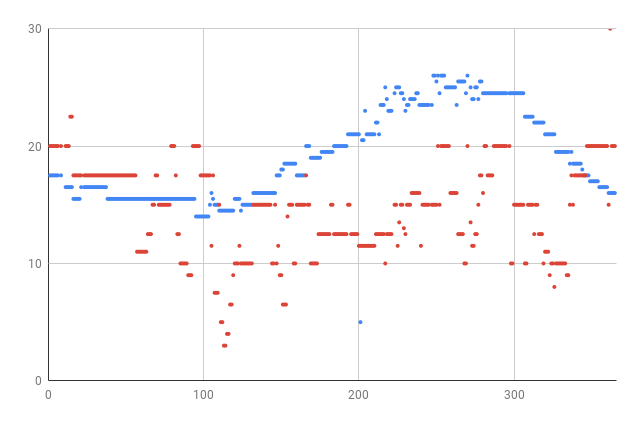
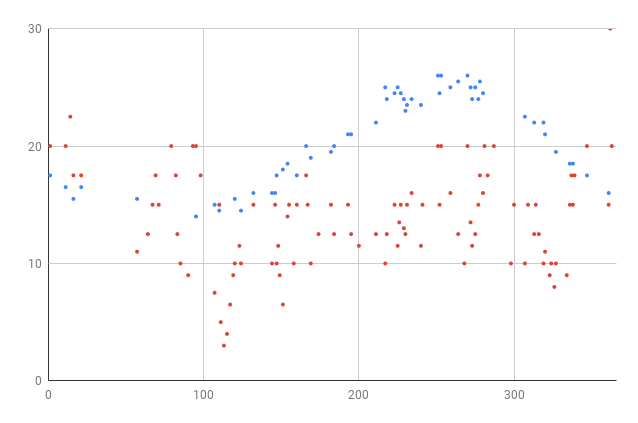
style: WIP WIP WIP プロットされるところをちょうど良くしたい

diff --git a/src/components/PlotDigitizer.vue b/src/components/PlotDigitizer.vue
@@ -44,8 +44,8 @@
                   top: `${axis.yPx}px`,
                   left: `${axis.xPx}px`,
                   'pointer-events': 'none',
-                  width: '10px',
-                  height: '10px',
+                  width: `${detectRangePx * 2}px`,
+                  height: `${detectRangePx * 2}px`,
                   'border-radius': '50%',
                   'background-color': coordAxes.length === 4 ? 'black' : 'red',
                 }"
@@ -73,8 +73,8 @@
                   top: `${point.yPx}px`,
                   left: `${point.xPx}px`,
                   'pointer-events': 'none',
-                  width: '10px',
-                  height: '10px',
+                  width: `${detectRangePx * 2}px`,
+                  height: `${detectRangePx * 2}px`,
                   'border-radius': '50%',
                   'background-color': 'red',
                 }"
@@ -93,6 +93,7 @@
               {{ showAxisName(coordAxes.length) }}
             </div>
           </div>
+          {{ points.length }}
           <v-simple-table v-if="points.length > 0 && coordAxes.length === 4">
             <template #default>
               <thead>
@@ -173,8 +174,8 @@
                     cursorOnGraph.xPx - circleRadiusScaledPx
                   }px, -${cursorOnGraph.yPx - circleRadiusScaledPx}px)`,
                   'transform-origin': 'top left',
-                  width: '10px',
-                  height: '10px',
+                  width: `${detectRangePx * 2}px`,
+                  height: `${detectRangePx * 2}px`,
                   'border-radius': '50%',
                   'background-color': coordAxes.length === 4 ? 'black' : 'red',
                 }"
@@ -209,8 +210,8 @@
                   }px, -${cursorOnGraph.yPx - circleRadiusScaledPx}px)`,
                   'transform-origin': 'top left',
                   'pointer-events': 'none',
-                  width: '10px',
-                  height: '10px',
+                  width: `${detectRangePx * 2}px`,
+                  height: `${detectRangePx * 2}px`,
                   'border-radius': '50%',
                   'background-color': 'red',
                 }"
@@ -301,6 +302,23 @@
             label="Plots Distance (px)"
             thumb-size="25"
           ></v-slider>
+          <div
+            :style="{
+              'background-color': 'black',
+              display: 'inline-block',
+              padding: `${pointsDistancePx - detectRangePx}px`,
+            }"
+          >
+            <div
+              :style="{
+                'pointer-events': 'none',
+                width: `${detectRangePx * 2}px`,
+                height: `${detectRangePx * 2}px`,
+                'border-radius': '50%',
+                'background-color': 'red',
+              }"
+            ></div>
+          </div>
           <v-color-picker v-model="colorPicker" class="ma-2"></v-color-picker>
           <v-btn :loading="isDetecting" @click="detectPointByColor">Run</v-btn>
         </v-col>
@@ -313,7 +331,7 @@
 import Vue from 'vue'
 import diff from 'color-diff'
 
-const circleRadiusPx = 5
+const circleRadiusPx = 3
 const [indexX1, indexX2, indexY1, indexY2] = [0, 1, 2, 3]
 
 export default Vue.extend({
@@ -341,9 +359,10 @@ export default Vue.extend({
       shouldShowPoints: true,
       detectRangePx: 3,
       colorDistancePct: 20,
-      pointsDistancePx: 10,
+      pointsDistancePx: 3,
       colorPicker: '',
       isDetecting: false,
+      circleRadiusPx,
     }
   },
   computed: {
@@ -442,11 +461,11 @@ export default Vue.extend({
               if (colorDiffDistance < this.colorDistancePct) {
                 this.points.push({
                   id: this.points.length + 1,
-                  xPx: w + this.detectRangePx / 2 - circleRadiusPx,
-                  yPx: h + this.detectRangePx / 2 - circleRadiusPx,
+                  xPx: w + this.detectRangePx / 2 - this.detectRangePx,
+                  yPx: h + this.detectRangePx / 2 - this.detectRangePx,
                 })
-                for (let i = 0; i < this.pointsDistancePx; i++) {
-                  for (let j = 0; j < this.pointsDistancePx; j++) {
+                for (let i = 0; i < this.detectRangePx * 2; i++) {
+                  for (let j = 0; j < this.detectRangePx * 2; j++) {
                     if (i + j === 0) {
                       continue
                     }
@@ -512,15 +531,15 @@ export default Vue.extend({
     plot(e: MouseEvent): void {
       if (this.coordAxes.length < 4) {
         this.coordAxes.push({
-          xPx: e.offsetX - circleRadiusPx,
-          yPx: e.offsetY - circleRadiusPx,
+          xPx: e.offsetX - this.detectRangePx,
+          yPx: e.offsetY - this.detectRangePx,
         })
         return
       }
       this.points.push({
         id: this.points.length + 1,
-        xPx: e.offsetX - circleRadiusPx,
-        yPx: e.offsetY - circleRadiusPx,
+        xPx: e.offsetX - this.detectRangePx,
+        yPx: e.offsetY - this.detectRangePx,
       })
     },
     calculateValueFromPixel(x: number, y: number): { xV: number; yV: number } {
